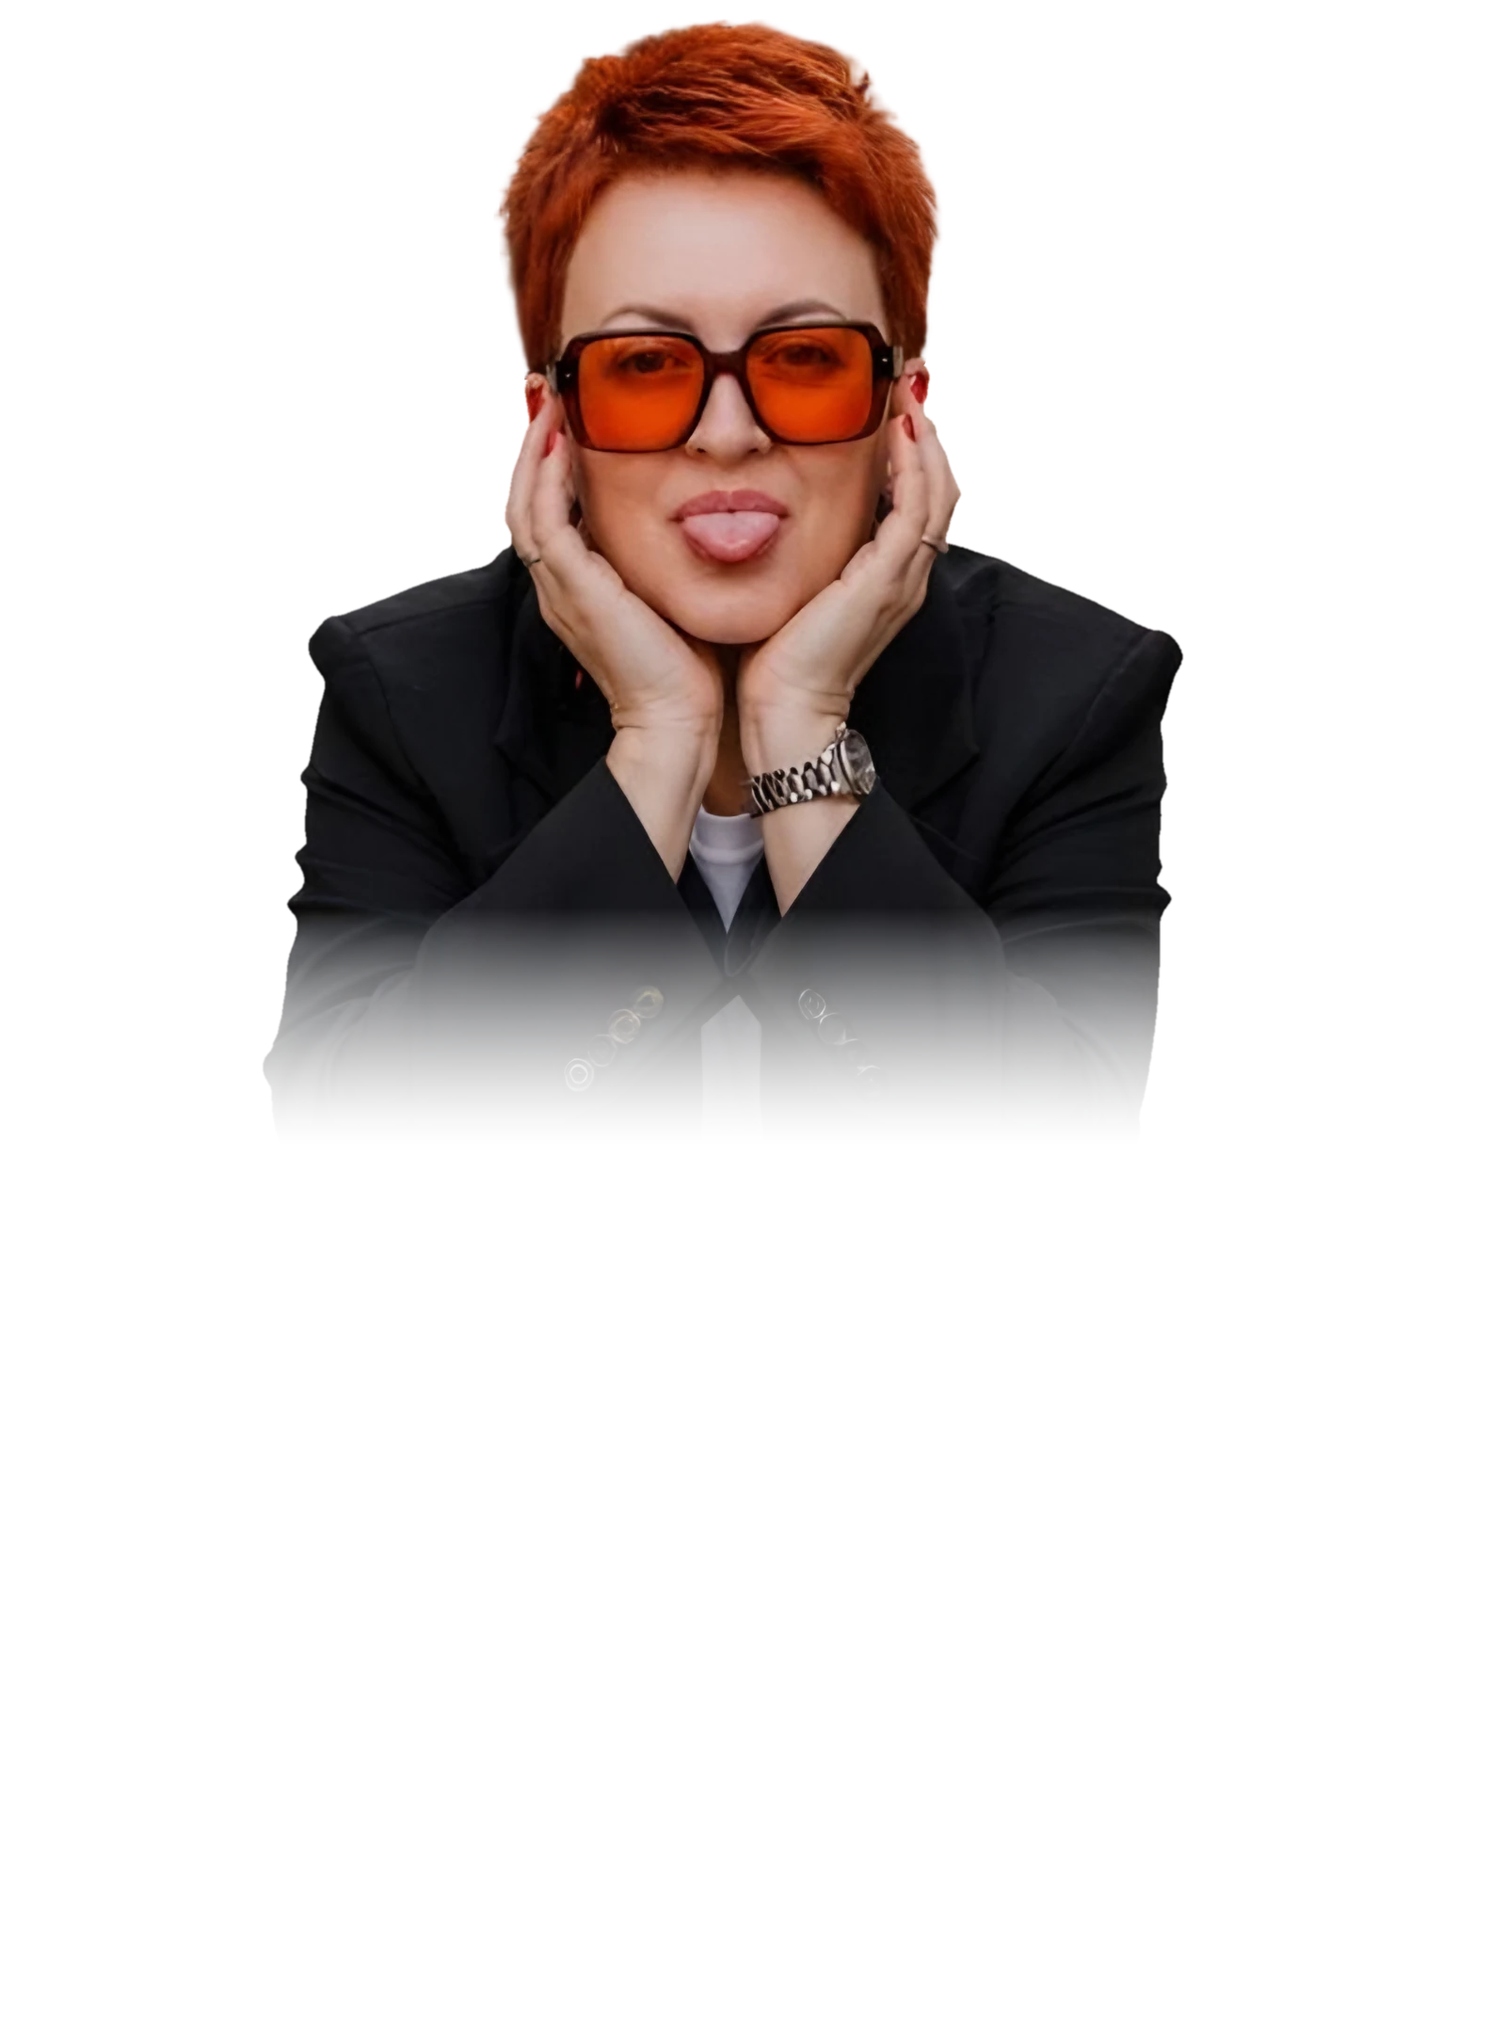
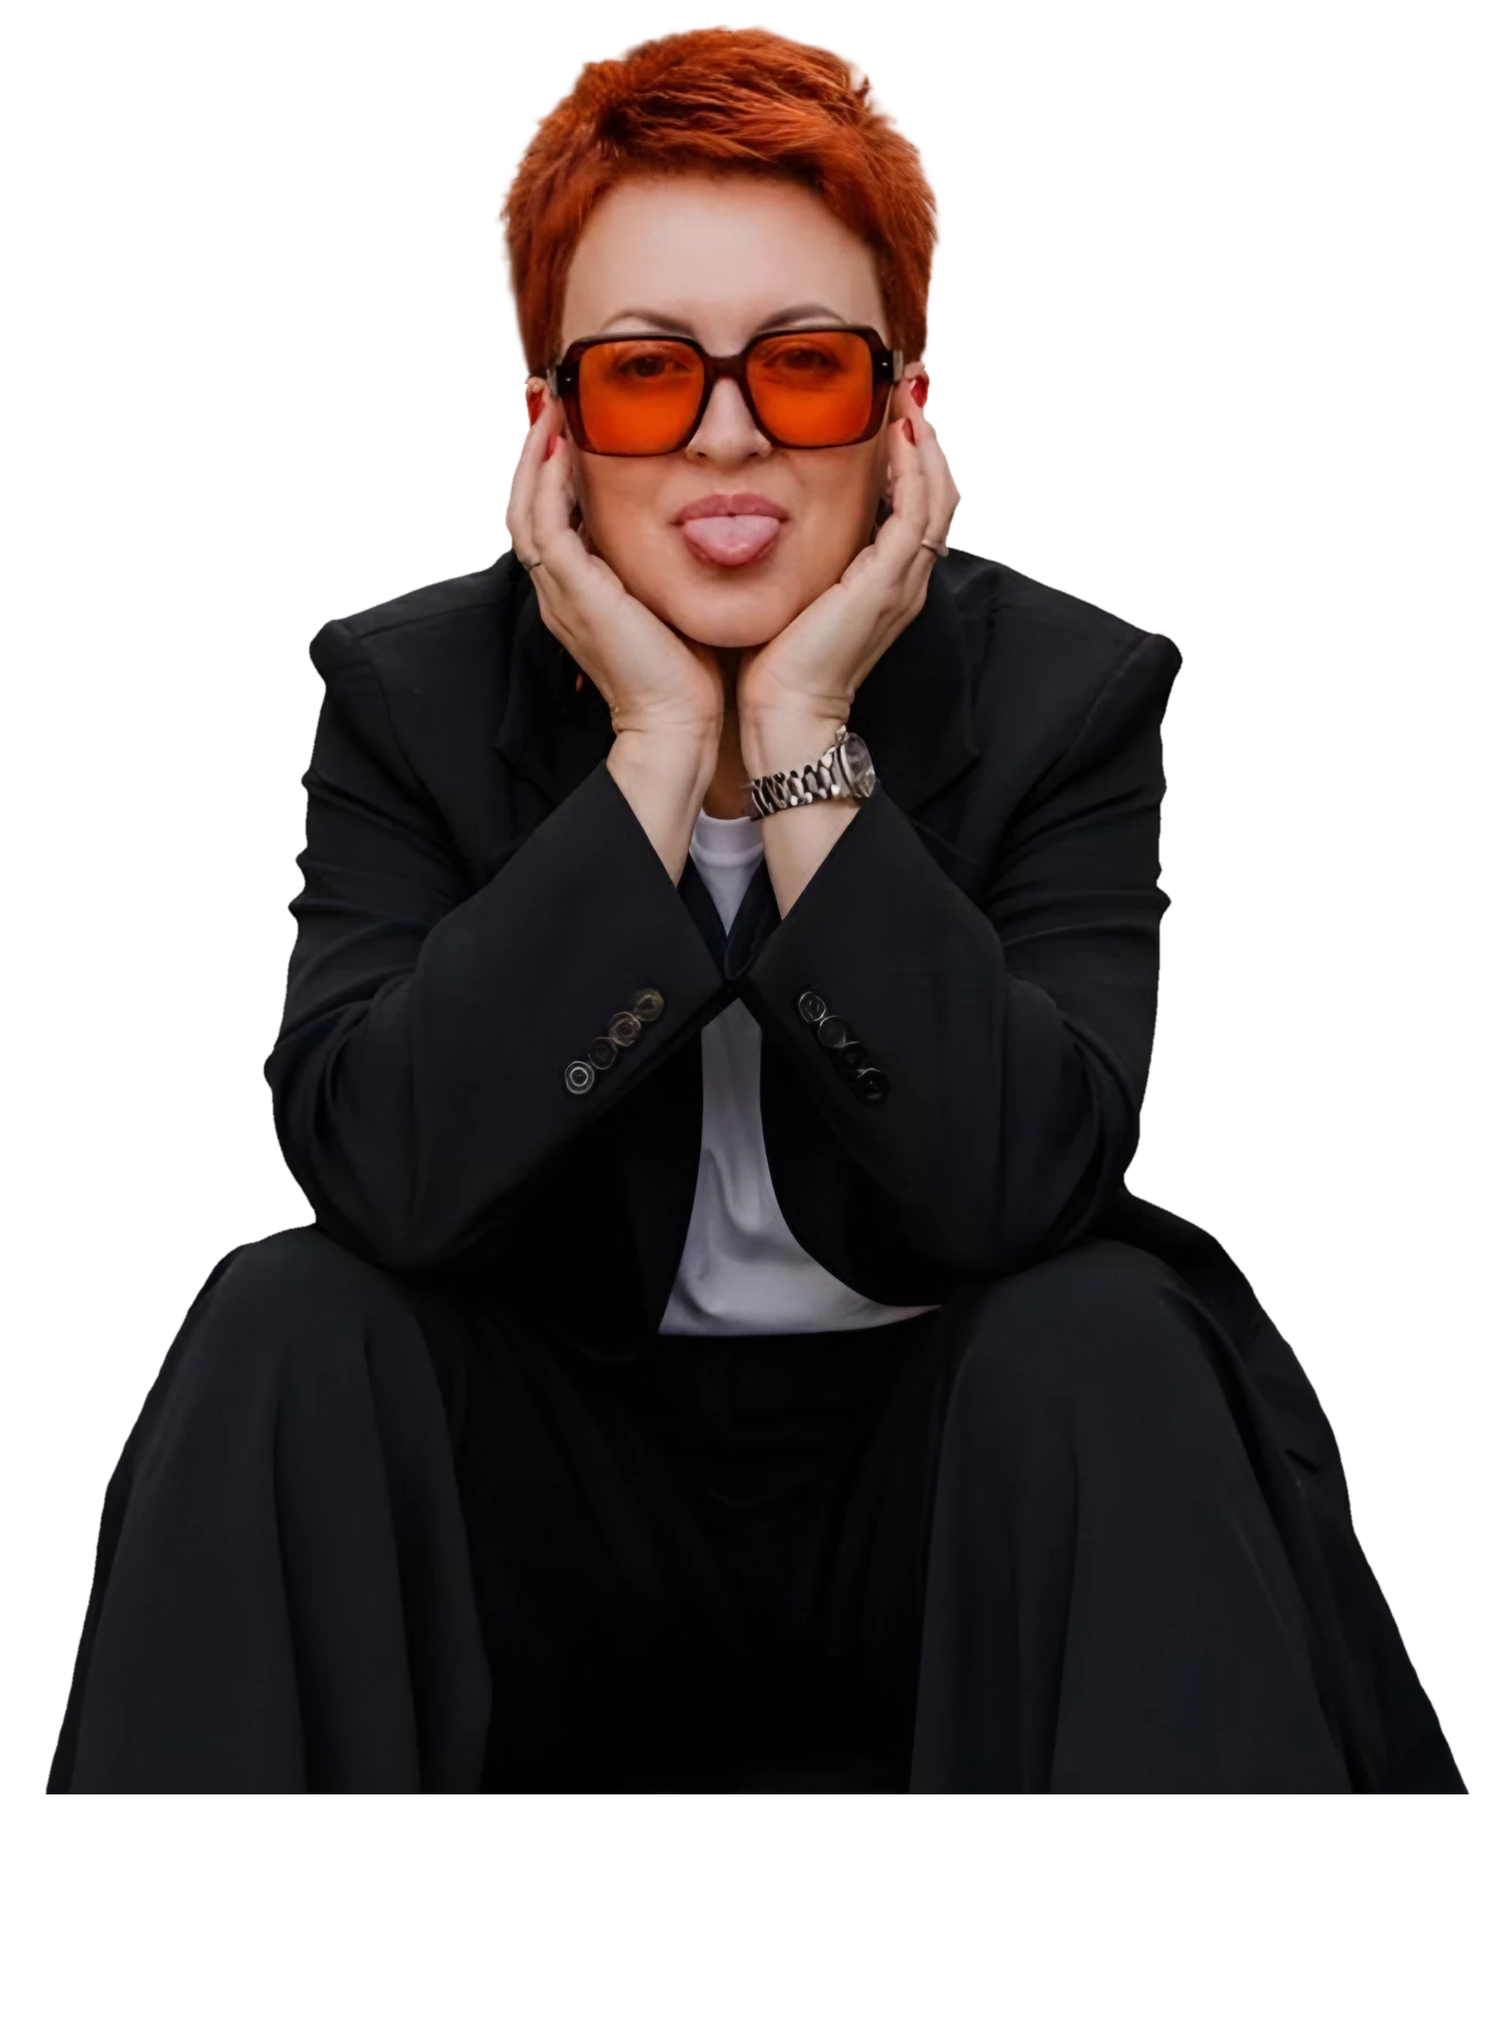
Обложка главной: вырез без растворения низа
Фигура идёт чётко до нижнего края графитовой плашки и срезается её краем.
Вырез пересобран тем же рецептом из x4 ниже колен (ПК) и ниже локтей (телефон),
масштаб и положение головы — как у принятого (IoU силуэта головы 0.99). ?v=20261022.

Claude-Session: https://claude.ai/code/session_011L8x4ubt6M66K2YLfJQJ7S
(cherry picked from commit 8841e7c65c871ac450691101664b81aafdc999c3)

diff --git a/index.html b/index.html
@@ -248,7 +248,7 @@ l-32 21 -80 -69 c-172 -148 -231 -161 -293 -65 -37 58 -93 236 -113 358 -59
 <p class="phero-sub">Помогаю экспертам и бизнесам <em>развивать личный бренд</em> и продвигаться осознанно.</p>
 <a class="phero-cta md-plate" href="#calendar"><span class="ph-arrow" aria-hidden="true"><svg viewBox="0 0 24 24"><path d="M4 12h15m-6-6 6 6-6 6"/></svg></span>Выбрать мероприятие</a></div>
 <div class="phero-media"><div class="ph-glass" aria-hidden="true"></div><div class="phero-plate"></div><p class="phero-place">База — Сочи<br>онлайн по России</p>
-<div class="phero-cut phero-cut--b"><picture><source media="(max-width:700px)" srcset="/assets/img/hero-cutout-suit-m-800.webp 800w, /assets/img/hero-cutout-suit-m-1600.webp 1600w" sizes="min(130vw,560px)"><img src="/assets/img/hero-cutout-suit-1600.webp" srcset="/assets/img/hero-cutout-suit-800.webp 800w, /assets/img/hero-cutout-suit-1600.webp 1600w" sizes="(max-width:900px) min(130vw,560px), 80vw" width="1600" height="2152" fetchpriority="high" alt="Валентина Сухарева в чёрном костюме и оранжевых очках, руки у лица"></picture></div>
+<div class="phero-cut phero-cut--b"><picture><source media="(max-width:700px)" srcset="/assets/img/hero-cutout-suit-m-800.webp?v=20261022 800w, /assets/img/hero-cutout-suit-m-1600.webp?v=20261022 1600w" sizes="min(130vw,560px)"><img src="/assets/img/hero-cutout-suit-1600.webp?v=20261022" srcset="/assets/img/hero-cutout-suit-800.webp?v=20261022 800w, /assets/img/hero-cutout-suit-1600.webp?v=20261022 1600w" sizes="(max-width:900px) min(130vw,560px), 80vw" width="1600" height="2152" fetchpriority="high" alt="Валентина Сухарева в чёрном костюме и оранжевых очках, руки у лица"></picture></div>
 <div class="phero-note"><svg class="hero-hand" data-md="pen" role="img" xmlns="http://www.w3.org/2000/svg" aria-label="Больше, чем маркетинг" viewBox="0 0 1073 1281.94" preserveAspectRatio="xMidYMid meet"><defs></defs><g class="hand-ink"><path fill="currentColor" d="M844.58 1.34c-26.2 9.4-62.3 69.5-70.2 116.8-.6 3.9-12.2 19.4-20.4 27.3-4.1 3.9-4.1 3.9-4.1 1.3 0-8.7 6.9-34.5 18.5-68.8 8.4-24.8 8.8-26.3 8.6-31.3-.3-6.8-9-9.9-15.8-5.7-5.2 3.1-11.2 16.9-22.3 50.4-4.8 14.8-7.9 22.2-14.2 33.9-14.1 26.3-23.4 41.6-30.9 50.7-2 2.5-2 2.5-1.4-3.5 1.2-11.1 11.6-48.8 21.5-77.9 1.6-5 3-10.3 3-11.8 0-7.3-6.8-12.4-13.1-9.8-6.6 2.8-8.9 7.3-23 45.5-5.9 16.1-22.2 49-33.6 68.1-7.4 12.3-18.2 27.9-18.9 27.2-1.3-1.4 13.6-58.5 18.7-71.5.6-1.5 3.3-9.2 6-17.1 4.5-12.9 4.9-14.6 3.9-18.2-2-7.6-9.4-10.2-16.1-5.7-5.6 3.8-8.4 9.7-19.4 41.3-5.8 16.5-7.2 19.4-15.6 32.5-5 7.9-9.5 14.8-10 15.3-.4.5-2-.5-3.5-2.3-3.8-4.5-7.5-6.1-14.1-6.1-6.5 0-13.9 2.9-20.3 8-3.7 3-3.7 3 3.6-19.8 8.2-25.1 8.8-29.5 5-33.9-1.9-2.2-3.2-2.8-6.3-2.7-5.9.2-8.9 2.8-12.8 10.8-5.8 12.1-18.6 49.1-29 84.1-2.9 9.8-7.5 18.7-20.3 39.9-6.6 10.8-17.5 27.3-20.9 31.5-1.1 1.5-1.3-1.6-.3-7 3.3-18.6 8.5-38.4 21.1-79.4 4.5-14.9 8.8-29.2 9.5-31.9 4.6-16.8-12.1-21.5-24.3-6.9-6 7.1-19.9 27.9-29.3 43.8-18.4 30.9-18.2 30.7-22.8 33.1-2.4 1.3-8.2 5.8-13 10.1-13.9 12.6-26.7 22.3-29.2 22.3-.4 0-.7-4.8-.7-10.8-.1-14.1-2.5-22-8.8-29-14.3-15.9-36.6-10.8-57.7 13.3-20.4 23.3-38.8 56.8-48.3 88.1-9.4 31-8.9 54.3 1.2 64.8 4.8 4.9 8.3 6.6 14.7 7.3 7.4.8 14.8-1.7 23.2-7.5 8.2-5.9 23.6-21.6 31.8-32.6 13.6-18.1 27.5-43.3 35-63.1 5-13.2 4.6-12.5 8.9-14 7.2-2.5 15.1-8.1 24.5-17.3 5.9-5.9 8.7-8.1 7.4-6-9.9 16.5-34.9 64.6-38.3 73.9-4.3 11.9-2.5 16.9 6.3 16.9 7.5 0 11-5.2 34.8-51 7.9-15.1 18.8-35.8 24.3-46s12-22.2 14.4-26.8c2.5-4.5 4.6-8.2 4.8-8.2s-.5 3-1.6 6.7c-2.8 9.7-7.5 29.3-9.5 39.8-2.2 11.8-2.3 28.7-.1 33.8 3.1 7.3 9.4 10.7 17.2 9.3 7.4-1.4 18.9-15.2 32-38.6 6-10.5 6-10.5 6.6-5.5 2.1 16.5 14.8 23.6 29.6 16.4 9.1-4.4 27-23.7 37.7-40.8 8.3-13.1 16.1-31.9 18.1-43.5.4-2.2 1.9-5.8 3.4-8 1.6-2.3 3.6-5.6 4.5-7.4 1-1.9 1.9-3.2 2.1-3 .1.1-.6 4.8-1.7 10.3-1.1 5.8-2 14.6-2.1 21-.1 9.3.2 11.7 2 15.7 3.8 8.3 12.7 11.2 21.1 6.9 8.1-4.1 22.4-23.2 35.2-46.9 5.5-10.2 5.5-10.2 7-3.9 2 7.6 3.2 10 6.8 12.5 12.4 8.9 26-2.5 46.3-39 6.3-11.1 6.3-11.1 7.6-7.2 2.8 8.2 10.1 12.4 17.8 10.3 4.7-1.3 12.6-9 21.3-20.7 3.5-4.7 6.4-7.8 6.6-7 .3.7 1 3 1.6 5 1.7 5.5 6.4 11.4 11.7 14.5 4.2 2.4 5.8 2.8 12.8 2.8 9.4 0 15.6-2.5 26.5-10.5 17.4-12.9 46.9-50.6 48.6-62.2 1.3-9-4.4-7.5-15 4-16.8 18.1-37.3 38-43.6 42-14.5 9.4-19.6 6.4-19.4-11.3.1-12.4 1.5-16.8 6.2-19.6 31.9-19.2 65.1-66.5 65.4-93 0-7-1.4-10.9-5.4-14.6-4.7-4.4-11.8-5.4-19.1-2.9m2.7 25.8c-2.6 9.9-11.6 26.1-21.1 37.7-6.4 7.9-15.3 17.4-15.8 16.9-.6-.6 7.3-17.9 12.3-27 7.3-13.1 22.4-32.8 25.3-32.8.4 0 .1 2.4-.7 5.2m-272.8 181.4c-1.9 15.9-19.4 48.7-34.8 64.9-5.7 6-5.7 6-5.8 1.4-.1-13.1 5.6-35 11.6-44.6 7.8-12.6 25.5-29.6 28.7-27.6.5.3.7 2.8.3 5.9m-214.3 48.8c.3.8-.1 5.2-.9 9.8-1.7 9.2-1.2 15.1 1.7 21.7 1.9 4.4 1.9 4.4-1.2 13.5-6.2 18.5-21.8 47.7-35.1 65.8-11.1 15.3-27.6 30.4-30.1 27.9-1.9-1.9-2-14.3-.3-23.3 8.3-42.2 39.5-103 58.7-114.7 4-2.4 6.5-2.7 7.2-.7m-19.3-202c-28.4 8.7-85 38.3-150.5 79-8.7 5.4-9 5.5-10.5 3.6-.8-1.1-2.9-2.4-4.7-3.1-7.3-2.5-14.5 3.2-18.2 14.4-1.2 3.5-2.7 7.1-3.4 7.9-.7.9-12.9 9.4-27.2 19-43.8 29.4-68.5 47.9-79.8 59.6-5.3 5.6-5.7 6.4-5.7 10.7 0 9 8.3 13.2 17 8.7 2-.9 12.5-8.1 23.5-15.8 24.3-17.1 57.5-39.6 57.5-39 0 .3-4.9 14.6-11 31.8-6 17.2-16.5 47.3-23.2 66.9-12.3 35.6-12.3 35.6-23.4 46.1-13.3 12.4-27.2 27.3-31.4 33.6-5.3 8-3.5 15.8 4.2 17.7 3.5.9 10.1-2.1 16.1-7.4 2.6-2.4 4.7-3.9 4.7-3.4s-4.1 13-9 27.8c-16.5 49.1-30.1 96.2-33.5 115.9-.8 5-2.1 9.4-2.8 9.8-2.6 1.8-20.4 11.6-24.1 13.4-4.8 2.3-6.1 4.2-5.2 7.8 1.8 7.4 14.4 8.6 29.1 2.7 34.8-14 105-66.4 157.2-117.5 35.2-34.3 57.8-63.7 72.4-94.1 8.2-16.9 11-27.1 11.6-42.2.5-11.2.4-12.9-2-20.5-4.2-13.2-12.2-22-24.4-27-5.1-2-7.4-2.3-18.3-2.2-10.5.1-13.9.5-21.2 2.7-18.1 5.5-41.5 17.5-63 32.3-5.8 4.1-10.9 7.4-11.1 7.4-.3 0 .1-1.7.9-3.8.7-2 3.9-10.9 7-19.7 3-8.8 9.2-26.1 13.6-38.5s11.1-31.5 14.9-42.5c6.6-19.2 7-20.1 10.6-22.4 40.1-25.9 121.6-72.7 167.7-96.3 13.7-7 18.3-9.9 19.7-12.2 2.7-4.3 2.4-7.3-1-10.7-2.7-2.6-3.6-2.9-9.3-2.8-3.6 0-9.5 1-13.8 2.3m-104 226.6c3.9 2.1 5.5 7.8 5.4 20 0 10.2-.4 12.6-3.3 21.2-8 24.4-27.4 54.9-53.7 84.8-20.3 23-56 56.6-86.1 80.8-14.3 11.5-39.5 30.3-40 29.8-1-1 11.2-40.1 30.2-97.1 28.5-85.1 23.9-74.6 37.5-85.9 46.2-38.5 94.4-62 110-53.6m664.3-183c-4.8 2.9-5.8 5-10.8 23.5-2.6 9.3-7.9 26-11.7 37-9.1 25.6-9.2 26-7.7 28.7 1.6 3 2.8 3.8 6.1 3.8 4 0 8-4 15.9-15.8 13.1-19.6 25.2-47.7 26.6-61.8.4-4.7.1-6.9-1.2-9.8-3.4-7-10.9-9.5-17.2-5.6m154.2 330.3c-7.8 3-27.6 13.3-44.5 23.4-7.4 4.4-16.3 9.5-19.7 11.2s-6.7 4-7.3 5c-1.7 3.2-1.2 8.6 1.1 11.6 2.2 2.7 2.2 2.7-1.6 14.8-3 9.7-6.9 18.1-19 41.2-16.5 31.3-23.7 44.2-32.3 57.5-3 4.7-5.6 8.7-5.8 8.9-1.4 1.6-1-2.3 1.6-15 3.6-18 9.4-38.1 21-72.7 9.8-29.4 10.5-33.4 6.6-37.9-2-2.3-3.2-2.8-6.9-2.8-8.9 0-13 6.8-24.6 40.9-3.8 11.1-7.9 23.8-9.1 28.1-1.2 4.4-2.7 8.6-3.4 9.4-1.6 2.2-30.8 25.2-31.2 24.8-.3-.2 3.4-12.1 8.1-26.4 5.1-15.8 8.5-27.7 8.5-30.2 0-5.8-3.3-9.1-9.1-9.1-3.7 0-4.8.6-8.3 4.3-5 5.2-8.5 13.8-19.7 48.2-4.4 13.7-8.8 26.9-9.6 29.2-3.6 10.3-34 60.5-41.7 68.8-3.7 4-3.7 4-3.2-4 .9-13.5 10.2-46.2 23.7-83.3 5.7-15.4 6.1-19.7 2.3-24.1-2-2.4-3.4-3.1-6.2-3.1-4.6 0-9.3 2.8-12 7.1-2.3 3.8-8.4 18.9-14.2 35-8.2 22.7-33.4 68-51.6 92.6-3.1 4.1-5.8 7.2-6.1 7-.7-.8 3.2-19.1 6.7-31.2 4.6-15.8 11.3-35.7 17.9-52.8 3.4-8.7 6.1-17 6.1-18.3 0-7.4-7.2-12-14.2-9.1-5 2.1-8.2 6.8-14 20.4-5.7 13.5-18.5 51.1-22.2 65.5-5.5 21.1-7.2 38.6-4.6 47.7 1.5 5.6 6.5 10.7 11.2 11.6 6.6 1.2 11.6-1.1 19.3-8.9 6.9-7 20.5-26.5 29.5-42.2l4.5-7.9.5 7.5c.7 9.3 3.8 15.3 9.2 18.1 6.6 3.4 12.4 2 19.8-4.7 4.4-4 16.1-20.9 23-33.4 3-5.4 4-6.7 3.6-4.4-2.1 12.8-2.7 20.4-1.7 24.1 1.3 4.9 2.8 6.2 7.5 7 3.3.5 4 .2 7.4-3.4 3.5-3.6 4.3-5.6 8.9-22.4 2.9-10.1 6.4-23.3 8-29.3 2.8-10.8 2.8-10.8 12.3-19 16.9-14.6 23.1-19.8 23.5-19.4.2.2-.3 4.8-1.2 10.3-1.9 13-1.4 26.6 1.2 32 2.4 4.9 7.6 8.5 12.2 8.5 11 0 19.9-11.3 39.7-50.2 5.5-10.9 10.1-19.7 10.2-19.5.1.1-.7 4.2-1.8 9.2-1.4 6.1-2.1 13-2.2 21.3-.1 12.4-.1 12.4 2.7 14.8q5.7 4.95 12-.6c3.9-3.4 3.8-3.2 10.2-31 6.2-27.3 18.1-71.2 28-103.6.2-.6 12.1-8.2 26.5-16.9 14.3-8.7 27.4-17 29.1-18.6 3.9-3.6 4-8.9.3-11.8-3.4-2.7-7.3-2.6-14.9.2m-582-.1c-3.9 2.1-6.8 5.4-13.5 15.3-11.7 17.5-22 35.5-52.5 91.5-11.6 21.3-13.8 25.1-12.9 21.4.2-1 2.4-11.8 4.8-23.9 2.5-12.1 6.1-29.1 8-37.8 2-8.8 3.6-17.3 3.6-19 0-4.7-3.2-9.3-7.5-10.7-3.2-1-4.1-.9-8.3 1.2-2.9 1.4-6.1 4.2-8.4 7.3-6.6 8.8-18.6 29.7-32.1 56.2-13.7 26.8-25.2 45.1-43.7 69.8-31 41.4-63.4 72.4-75.8 72.5-5.1 0-6.6-12.9-3.3-27.7 1.1-4.7 1.7-5.4 7.6-9.2 23.5-15.2 46-40.5 58.9-66.1 9.3-18.8 10.8-30 4.9-37-9.8-11.7-27.8-6-45.5 14.2-26.1 29.9-46.5 72.8-51 107.3-1.1 8.9-1.1 8.9-11.2 20.9-18.9 22.5-38.6 43.3-38.6 40.9 0-.6 1.6-6.4 3.5-13 8.1-27.9 23-63.1 47.4-112.1 10.1-20.5 11-24.3 6.7-28.7-3.6-3.6-6.8-4-12-1.5-5.9 2.8-8.6 7.2-23.2 36.5-11 22.3-11.7 23.4-22 35.3-5.9 6.7-13.5 14.9-17 18.2-7.3 6.8-17.2 14.5-17.9 13.8-.6-.6 5.8-18.2 9.9-27.2 2-4.3 7.5-14.5 12.1-22.6 8.8-15.2 10-19.3 7.4-24.2-2.9-5.3-11.7-5.4-18.1 0-6.2 5.2-20.4 29.2-28.2 47.7-6.1 14.3-7.9 21.6-8 31.5-.2 14.6 4.6 20.5 16.4 20.5 8.3 0 13-2.3 24.3-12.1l8.5-7.3-5.3 16.2c-11.2 33.9-11.8 50.9-2.1 56.8 6.7 4.1 13.6 1.7 24.7-8.9 11.3-10.6 36.1-43.1 42.9-56.1 1.2-2.3 1.3-2.3 2.2-.5 5.1 9.6 11.4 14.3 20.5 15.1 7.5.7 16.3-2.2 25.8-8.5 13.3-8.8 39.9-38.1 54.5-59.9 3-4.5 5.5-8.1 5.6-8 .2.1-1.8 6.3-4.3 13.6-5.1 15.2-6 22.6-3 25.9 4.3 4.8 11.6 3.1 16.6-3.8 1.7-2.3 5.6-10.8 8.7-18.8 16.5-42.3 21.4-54.4 29.7-73.2 5-11.3 9.5-21 10-21.5.7-.7.8-.4.3.8-1.1 3.2-4.4 24.7-5.7 36.5-2.5 24.4 1.4 35.4 12.1 33.9 5.5-.7 9.3-3.8 14.9-12 6.3-9.4 38-66.5 48.5-87.6 3.8-7.4 5.7-8.9 3.7-2.9-.6 1.8-2.6 10-4.5 18.3-8.4 36.6-8.8 61.3-1 68.6 2 1.8 3.6 2.4 7.4 2.4 8.8 0 11.7-4.8 13.1-21.3 1.8-22.5 7.1-47.2 22.3-103.7 4.2-15.3 7.6-29.2 7.6-30.7 0-4.2-2.4-9.2-5.5-11.6s-9.6-2.9-13-1m-188.5 123c-1.3 4.5-8.4 18-13.2 25.1-7.1 10.5-26.8 32.8-26.8 30.4 0-.4 2.7-5.9 5.9-12.2 6.4-12.4 15-26.1 21.4-34 4.1-5.2 11.7-12.5 12.9-12.5.4 0 .3 1.5-.2 3.2m518.9-48.3c-16.2 6.1-56.1 26.4-89.9 45.9-32.2 18.6-67.9 42.9-81.2 55.4-4 3.7-4.8 5-4.8 8 0 3.7 1.9 6.1 5.8 7.3 3.1.9 9.4-2.2 28.7-13.9 64.1-39.2 105.4-63.4 139.5-82.1 10.7-5.8 20.3-11.5 21.3-12.7 2.2-2.6 2.2-7.1-.1-9.1-2.8-2.6-10.5-2-19.3 1.2m-100.7 91.2c-5.6 2.8-8.8 9.5-18.7 39.4-7.1 21.5-8.4 24.6-20.4 47.1-15.3 28.6-22.5 40.4-34.7 56.7-16.6 22.2-35.2 39.5-44.1 41.3-2.6.5-3.4.2-4.8-2-2.3-3.5-2.9-13.5-1.3-22.5 1.3-7.5 1.3-7.5 6.8-10.7 23.3-13.6 53.7-53.7 60.1-79.3 3.4-13.6 1.8-20.5-6.2-25.9-2.9-2.1-4.3-2.3-9.4-1.9-7.1.5-12.3 2.9-19.4 9-21.5 18.4-43.7 57.7-53.4 94.7-2.6 9.9-3 13.5-3.2 26.1-.2 14.6-.2 14.6-3.5 19.5-8.7 12.9-14.9 18.4-20.5 18.4-1.8 0-4.9-1.1-7.1-2.6-4-2.7-25.4-23.3-25.4-24.6 0-.3 5.7-8.4 12.6-18 6.9-9.5 14.4-19.9 16.7-23.2 2.3-3.2 12.3-16.6 22.2-29.8 21.2-28.3 21.5-28.7 21.5-31.5 0-10-10.8-12.2-19.7-4-7.8 7.1-28.3 34.3-48.7 64.4-3.8 5.7-7.1 10.1-7.3 9.9s2-10 4.8-21.8c5.6-23 5.7-25.1 1.4-29.4-3-3-8.5-3.2-13.1-.3-5.9 3.6-10 15.2-21 59.7-3.1 12.5-6.4 23.9-7.3 25.3s-3.8 5-6.4 8c-4.9 5.3-4.9 5.3-4.1.4 3.7-23.3-4.6-38.8-20.6-38.9-10.3-.1-22.3 8.1-35.1 24-2.9 3.5-5.4 6.3-5.5 6.1-.1-.1.6-3.8 1.7-8.2 2.2-9.2 1.9-13.2-1.7-17.4-3.4-4-7.2-4.7-12.7-2.3-7.1 3.1-7.6 4.3-22.2 50.2-5.5 17-27.4 64.1-41.3 88.5-6.8 11.9-17.2 27.5-18.3 27.5-3.4 0 5.8-39.1 20.5-87.3 2.1-6.9 3.6-13.9 3.6-16.9 0-4.4-.4-5.4-3.4-8.4-6.2-6.2-14.5-3.3-18 6.1-.2.6-1.6.3-3.4-.8-4.4-2.5-11.6-2.2-18 .8-7.6 3.5-15.3 10.4-24.5 22-33 41.2-56.7 102.4-49.7 128.4 3.2 12 15.4 16.8 26.9 10.6 10-5.5 26.4-26 38.3-48l4.3-8 .7 7.2c2.1 20.5 15 27.1 28.7 14.7 4.7-4.2 14.7-18.8 21.1-30.7 2.3-4.3 4.4-7.7 4.5-7.5.2.2-.7 3.7-2 7.8-7.5 23.8-32 107.9-39 133.4-8.7 32-10.2 42.4-7 48.6 3 5.8 10.3 6.9 15 2.2 3.4-3.4 3.4-3.4 10.5-28.2 7.2-25.4 19.4-66.3 31.2-105 5-16.2 9.7-32 10.6-35 .8-3 1.7-5.7 1.9-5.9.2-.3 1.3.5 2.6 1.6 6.3 5.8 14.5 6.2 24.4 1.3 17-8.4 44.1-44.8 59.4-79.9 2.9-6.6 6-11.7 9.9-16.2 3.1-3.7 7-8.5 8.6-10.8 1.6-2.2 3.2-4.1 3.5-4.1s-.3 3.9-1.3 8.7c-2.4 12.2-4.8 29.4-4.8 35.4 0 6.5 2.2 10.7 6.6 12.5 3.2 1.4 3.9 1.3 7.2-.3 2-1 4.7-3.3 5.9-5.1 2.2-3.4 2.9-5.8 9.4-36.7 2.2-10.5 4.2-19.8 4.5-20.8.4-1.4 2.3-.1 9.5 6.5 16.1 14.8 25.7 19.7 36.2 18.4 10.8-1.2 21.8-11.3 29.6-26.8 3.2-6.5 4.1-7.6 5.1-6.4.6.8 3.5 2.6 6.3 4.1 13.1 6.5 29.3 0 47.8-19.2 16.3-17 34.7-44.2 45.7-67.7 1.8-3.8 3.4-6.7 3.6-6.5s-.9 6.2-2.4 13.3c-5.1 23.2-6.5 43.6-3.4 50.1 2.2 4.7 6.5 6.3 10.9 4.2 4.6-2.2 6.8-7 8.9-19.7 5.2-30.5 15.7-70.6 36.6-139.3 3.2-10.7 3.1-14.3-.5-17.7-3.3-3.1-8.2-3.5-13.3-.9m-77.1 68.6c-1.6 6.3-8 18.8-14.6 28.8-5.8 8.6-20.8 26-21.3 24.5-.6-1.7 12.7-28 19.1-37.6 6.6-10 16.5-21.9 17.4-21 .3.3 0 2.7-.6 5.3m-200.6 110.2c.8 3.6-1.1 18.5-3.6 28.3-4.2 16.6-8.7 28-12.7 32.3-12.9 13.5-35.2 44.7-44.2 61.8-1.4 2.6-2.8 4.7-3.2 4.7-1.6 0-.8-21.5 1.1-30 5.1-22.8 18.6-49.7 37.8-75.5 8.2-10.9 21.1-24.5 23.3-24.5.4 0 1.1 1.3 1.5 2.9m-140.1 56.7c3.7 9.6-8.3 40.3-29.3 74.9-12.6 20.7-29.8 44.5-32.2 44.5-2.2 0 3.1-22.3 9-38 12.3-32.9 28.4-61.5 42.6-75.8 4-3.9 7.7-7.2 8.3-7.2.5 0 1.3.7 1.6 1.6m737.1-36.5c-30.1 8.4-96.7 33.5-158 59.4-77.6 32.8-111.7 48-185 82.4-84 39.5-225.8 113.4-301 156.9-48.6 28.1-111 66.8-155.5 96.5-61.4 41-103.2 74.5-104.7 83.9-.8 5.2 2.9 8.8 8.9 8.8 5.3 0 4.2.6 47.5-28.6 72.5-49 172.9-111.1 244.1-151.1 90.5-50.8 144-79.2 231.2-122.7 98.5-49.1 234.9-111 369.3-167.6 18.2-7.7 21.1-9.5 21.5-13.7.6-6.3-5.7-7.7-18.3-4.2m-828.1 48.3c-9.9 4.3-28.9 36-70.3 117.1-3.8 7.5-5 9.1-4.6 6.5.6-3.9 4.6-26.1 9.9-54.8 2-10.6 3.6-20.8 3.6-22.5 0-8.3-7.1-13.8-15-11.7-9.4 2.5-16.2 11.1-31.5 39.7-28.9 54-68.5 148.4-68.5 163.4 0 6.3 2.3 8.9 8 8.9 3.3 0 4.7-.7 8-4 5.3-5.3 7-9 22.6-47.7 13.8-34.3 38.4-91.2 39.5-91.3.4 0 .3 1.9-.2 4.2-4.9 26.8-6.4 57.9-3 65.5 2.3 5.1 5.9 7.6 10.9 7.6 10.8 0 14.6-5.7 47.7-71.1 8.1-16.1 14.9-29.1 15.1-28.9.2.1-.5 3-1.6 6.4-2.4 7.7-8.5 35.4-10.1 45.8-1.9 12.5-1.7 26.4.4 30.2 1.8 3.4 6.2 6.3 9.4 6.3 2.9 0 8.1-3.7 9.8-7 .9-1.7 2.3-8.6 3.1-15.3 2.9-23.5 8.7-47 28.8-116 5.8-20 6.2-22.3 3.9-26.7-2.9-5.7-9.2-7.5-15.9-4.6"/></g></svg></div><div class="phero-stamp" role="img" aria-label="Онлайн, нетворкинги, личный бренд"><svg viewBox="0 0 100 100" aria-hidden="true"><defs><path id="ph-ring" d="M50 50m-41 0a41 41 0 1 1 82 0a41 41 0 1 1-82 0"/></defs><text font-size="9.2"><textPath href="#ph-ring" textLength="255" lengthAdjust="spacing">Онлайн · Нетворкинги · Личный бренд ·</textPath></text></svg><b aria-hidden="true">*</b></div></div>
 <ul class="phero-stats" aria-label="Цифры" data-count-group>
 <li><b data-count="20" data-count-late data-count-delay="0">20+</b><span>лет в маркетинге, с&nbsp;2006&nbsp;года</span></li>
